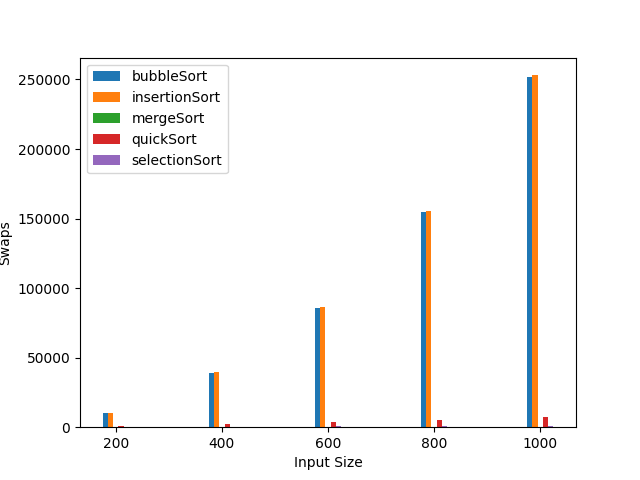
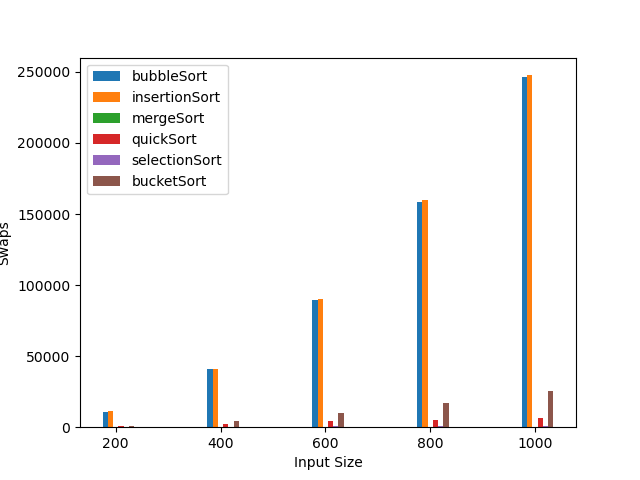
added bucket sort in python

diff --git a/Python/pySorter.py b/Python/pySorter.py
@@ -7,6 +7,8 @@ from SortingAlgos.insertionSort import insertionSort
 from SortingAlgos.mergeSort import mergeSort
 from SortingAlgos.quickSort import quickSort
 from SortingAlgos.selectionSort import selectionSort
+from SortingAlgos.bucketSort import bucketSort
+from SortingAlgos.heapSort import heapSort
 
 # To add new algorithms, add a new entry in this dictionary
 # Key - Algorithm name, will be recognised from commandline
@@ -17,7 +19,9 @@ FUNCTIONS_DICT = {
     "insertionSort" : insertionSort,
     "mergeSort" : mergeSort,
     "quickSort" : quickSort,
-    "selectionSort" : selectionSort
+    "selectionSort" : selectionSort,
+    "bucketSort" : bucketSort,
+    "heapSort" : heapSort
 }
 
 def readArray():

diff --git a/Python/SortingAlgos/bucketSort.py b/Python/SortingAlgos/bucketSort.py
@@ -1,0 +1,20 @@
+#bucket sort algorithm
+from SortingAlgos.insertionSort import insertionSort
+def bucketSort(numElements,array,analyser):
+	analyser.startTimer()
+	analyser.trackSpace(array)
+	numofBuckets=10
+	bucketed=[]
+	for i in range(numofBuckets):
+		bucketed.append([])
+	for j in range(len(array)):
+		index=(numofBuckets*array[j])//(max(array)+1)
+		bucketed[index].append(array[j])
+	for k in range(numofBuckets):
+		insertionSort(len(bucketed[k]),bucketed[k],analyser)
+	ind=0
+	for i in range(numofBuckets):
+		for j in range(len(bucketed[i])):
+			array[ind]=bucketed[i][j]
+			ind+=1
+	analyser.endTimer()

diff --git a/sortAnalyser.py b/sortAnalyser.py
@@ -3,7 +3,7 @@ import matplotlib.pyplot as plt
 import os, json
 
 LANGS = {
-    "Cpp" : "g++ cppSorter.cpp -o cppSorter && cppSorter {0}",
+    #"Cpp" : "g++ cppSorter.cpp -o cppSorter && cppSorter {0}",
     "Python" : "python pySorter.py {0}"
 }
 

diff --git a/Python/pyAnalyser.py b/Python/pyAnalyser.py
@@ -12,6 +12,8 @@ class PyAnalyser:
 
     # Starts timer (Called at beginning of sort)
     def startTimer(self):
+        if self.__start:
+            return
         self.__start = time.time()
 
     # Stops timer (Called after sort is done)

diff --git a/Python/SortingAlgos/heapSort.py b/Python/SortingAlgos/heapSort.py
@@ -1,0 +1,10 @@
+#heap sort algorithm
+def heapSort(numElements,array,analyser):
+	analyser.startTimer()
+	analyser.trackSpace(array)
+
+
+
+
+
+	analyser.endTimer()
